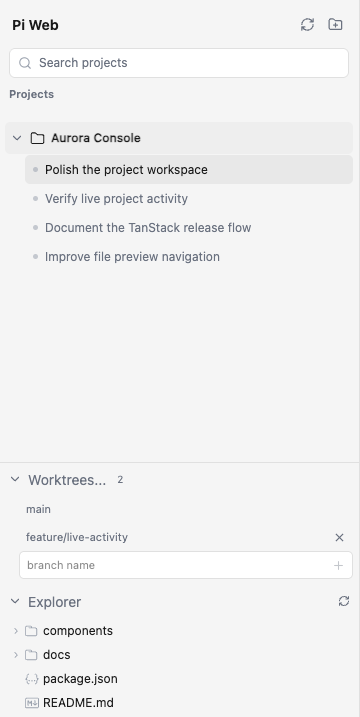
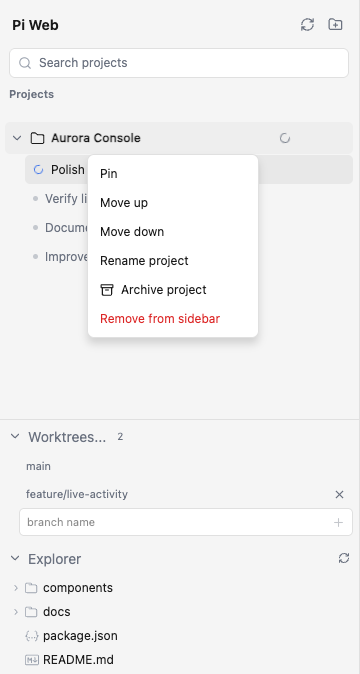
docs: address GitHub introduction review

diff --git a/README.md b/README.md
@@ -14,7 +14,7 @@ Requires Node.js 22.19.0 or newer. Pi Web opens the browser when the server is r
 
 ## One Workspace For Pi
 
-- **Projects and sessions**: keep repositories directly visible, search and reorder projects, archive inactive work, and browse, resume, rename, export, or delete sessions without changing the underlying directories or JSONL files.
+- **Projects and sessions**: keep repositories directly visible, search and reorder projects, archive inactive work, and browse, resume, rename, export, or delete sessions while continuing to use pi-compatible directories and JSONL storage.
 - **Live agent activity**: see which projects are running, follow streamed thinking and tool calls, and receive completion feedback even when work finishes outside the active project.
 - **Session relationships**: keep primary, forked, and subagent sessions understandable; create an independent session from an earlier message or branch inside the current session.
 - **Files beside the conversation**: browse and upload files, inspect Git diffs, and preview source, Markdown, images, audio, PDFs, and DOCX files with automatic refresh.
@@ -32,7 +32,7 @@ Pi Web shares pi's local settings and credential storage. Saved model and provid
 - plugin packages and project extension reloads;
 - appearance, language, completion sound, project trust, and archived projects.
 
-Credentials remain in pi's local storage. API responses and screenshots do not expose raw key material.
+Credentials remain in pi's local storage. The screenshots in this README use synthetic provider data and contain no credential material.
 
 ![Pi Web Settings with model providers, models, skills, and plugins in one workspace](./docs/pi-web-settings.png)
 
@@ -55,7 +55,7 @@ Pi sessions, models, tools, files, Git, and worktrees
 - **Installable PWA**: the manifest, service worker, offline page, responsive layout, and browser notifications keep the workspace useful across desktop and narrow screens.
 - **Request security**: exact-host validation, optional HTTP Basic Auth, project trust checks, CSRF protection for server functions, and scoped filesystem roots protect local agent capabilities.
 - **Reproducible package path**: production output is built outside the repository, staged into an npm tarball, installed into a fresh temporary project, and probed through the real `pi-web` CLI before publishing.
-- **Cross-platform gate**: Windows CI exercises checkout line endings, build output, packaging, installation, startup, and route smoke tests in addition to the regular tests, lint, and typecheck.
+- **Windows verification**: a dedicated Windows workflow exercises checkout line endings, build output, packaging, installation, startup, and route smoke tests; the regular project checks cover tests, lint, and typecheck.
 
 ## Install And Run
 
@@ -134,6 +134,23 @@ npx @agegr/pi-web@latest
 - **File boundary**: the file browser is limited to working directories selected in Pi Web and project or session roots it already knows about; it is not a general filesystem browser.
 - **Project trust**: project-local extensions and skills that require trust stay restricted until the project is explicitly trusted.
 - **Worktrees**: see [Worktrees in Pi Web](./docs/worktrees.md) for switcher visibility, creation, removal, and dirty-checkout behavior.
+
+### Downstream Session Menus
+
+Desktop wrappers can replace a session row's native context menu without patching `CodexSidebar`. Listen for the cancelable `pi-web:session-row-contextmenu` browser event and call `preventDefault()` synchronously when the integration will handle it:
+
+```js
+window.addEventListener("pi-web:session-row-contextmenu", (event) => {
+  event.preventDefault();
+  const { id, path, cwd, name, clientX, clientY, refresh } = event.detail;
+
+  void openSessionMenu({ id, path, cwd, name, clientX, clientY }).then((changed) => {
+    if (changed) refresh();
+  });
+});
+```
+
+The detail object includes the session identifiers, pointer coordinates, and a `refresh()` callback. If no listener cancels the event, Pi Web preserves the browser's native context menu.
 
 ## Development
 
